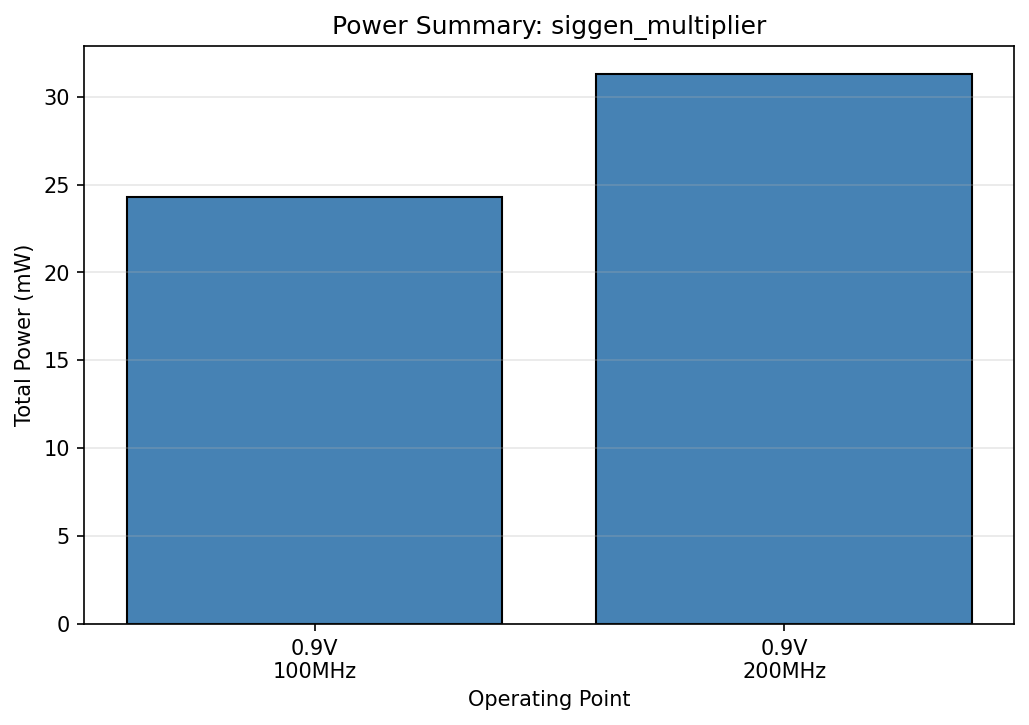
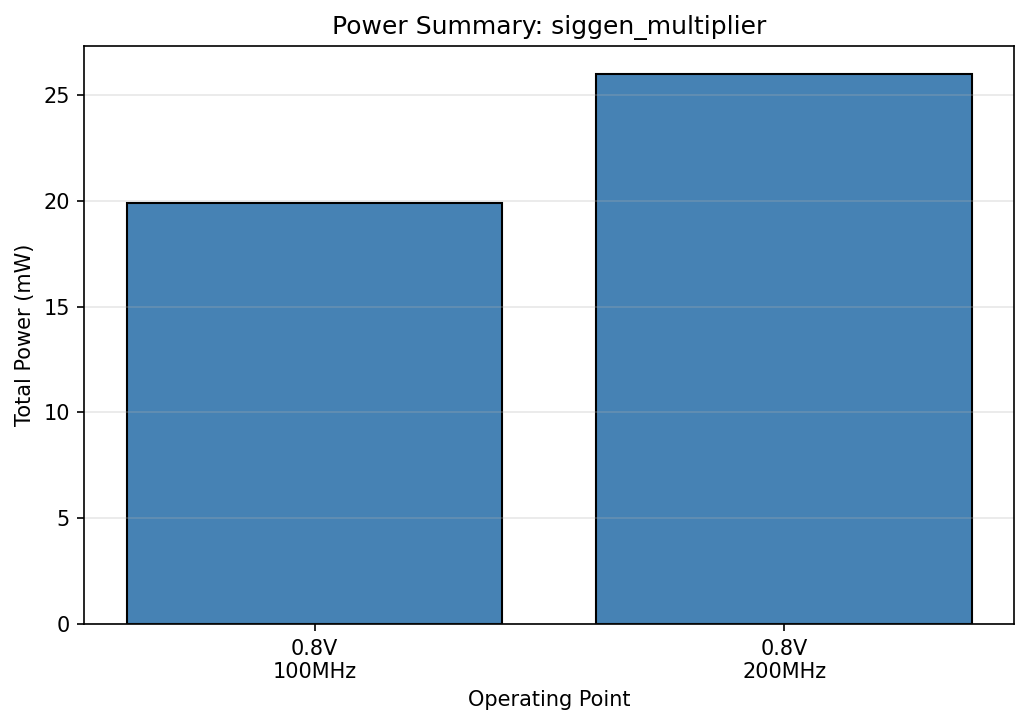
ci: update generated shmoo plots and summaries

diff --git a/outputs/shmoo_summary.md b/outputs/shmoo_summary.md
@@ -6,8 +6,8 @@
 | siggen_adder.rpt      | siggen_adder      |       0.8 |         300 | FAIL     |          20   |
 | siggen_adder.rpt      | siggen_adder      |       0.9 |         300 | PASS     |          23.1 |
 | siggen_adder.rpt      | siggen_adder      |       1   |         300 | PASS     |          26.5 |
-| siggen_multiplier.rpt | siggen_multiplier |       0.9 |         100 | PASS     |          24.3 |
-| siggen_multiplier.rpt | siggen_multiplier |       0.9 |         200 | FAIL     |          31.3 |
+| siggen_multiplier.rpt | siggen_multiplier |       0.8 |         100 | PASS     |          19.9 |
+| siggen_multiplier.rpt | siggen_multiplier |       0.8 |         200 | PASS     |          26   |
 | siggen_random.rpt     | siggen_random     |       0.8 |         100 | PASS     |          17.3 |
 | siggen_random.rpt     | siggen_random     |       0.9 |         200 | PASS     |          21.5 |
 | siggen_random.rpt     | siggen_random     |       0.7 |         300 | FAIL     |          26   |
